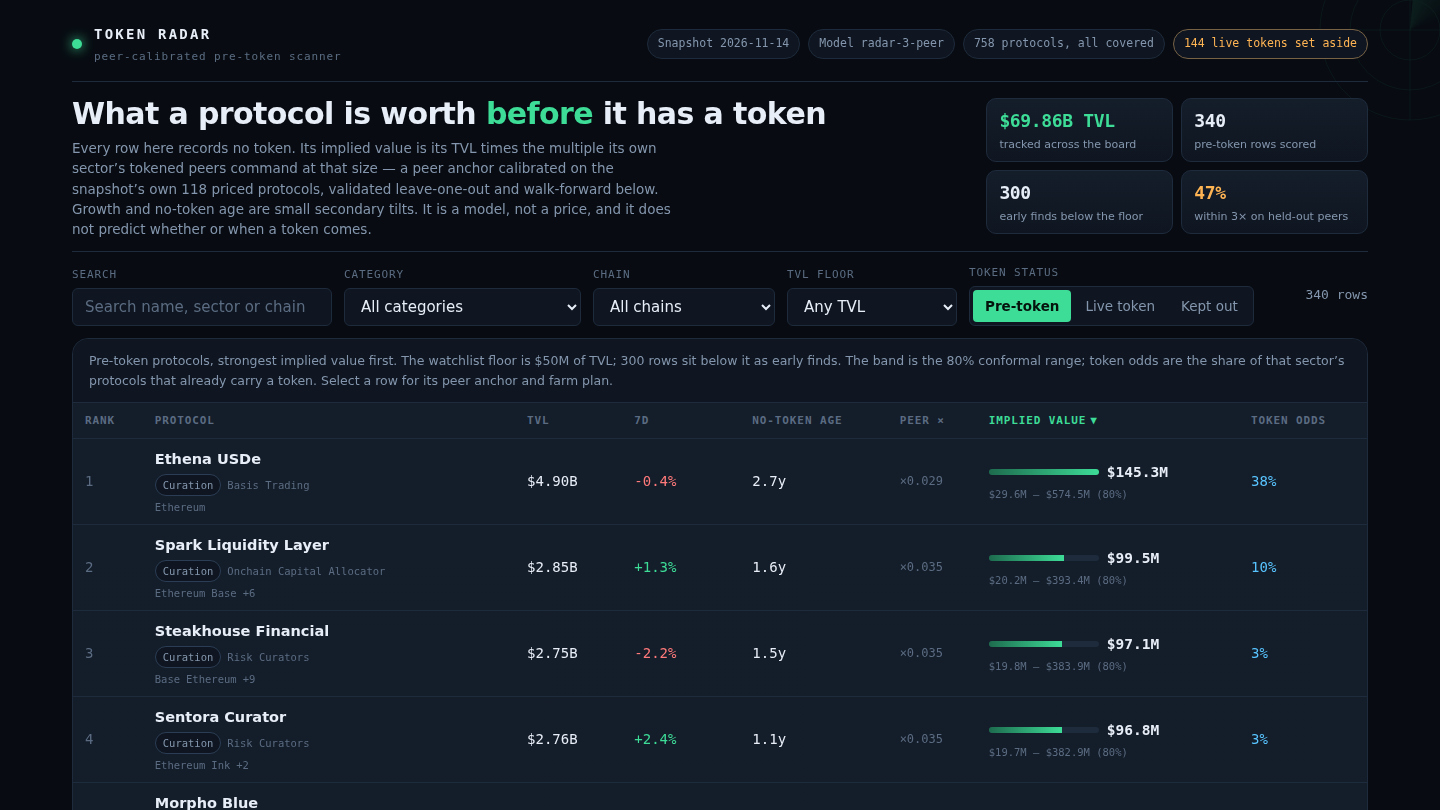
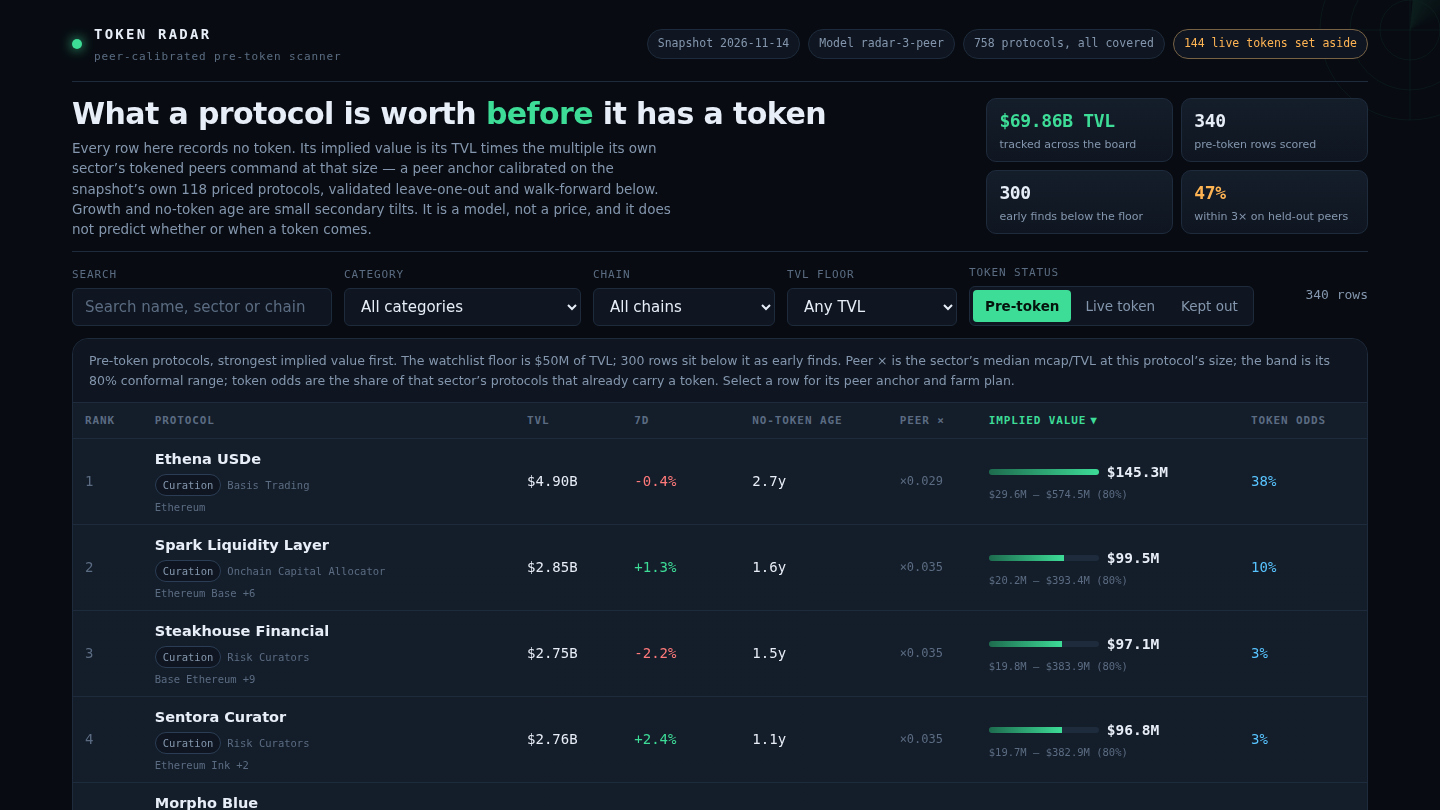
explain the peer column in the board caption; harden slug and history handling
The caption now says what Peer x means (the sector's median mcap/TVL at the
protocol's size), and the kept-out caption stops saying '274 of 274'. boardIssue
refuses a slug the snapshot does not list or an empty name; writeHash survives a
file:// history refusal. Screenshots re-rendered from this build: 331,528 /
312,482 / 340,405 bytes at 1440x810.

Changed region(s): [[0.0625, 0.4321, 0.9375, 0.4938]]

diff --git a/dashboard/app.js b/dashboard/app.js
@@ -89,7 +89,7 @@
     if (state.dir !== -1) p.set('dir', String(state.dir));
     if (state.selected) p.set('p', state.selected);
     var next = p.toString();
-    window.history.replaceState(null, '', next ? '#' + next : window.location.pathname + window.location.search);
+    try { window.history.replaceState(null, '', next ? '#' + next : window.location.pathname + window.location.search); } catch (e) { /* file:// may refuse a history rewrite; state still holds */ }
   }
 
   function passesFilters(r, q) {
@@ -249,7 +249,7 @@
       ? 'Showing ' + list.length + ' of ' + DATA.board_size + ' rows, ' + fmtUsd(list.reduce(function (s, r) { return s + r.tvl_usd; }, 0)) + ' of TVL, that match the filters.'
       : 'The watchlist floor is $' + Math.round(DATA.floor_usd / 1e6) + 'M of TVL; ' + DATA.early_size + ' rows sit below it as early finds.';
     return el('div', { class: 'panel' },
-      el('div', { class: 'caption', text: 'Pre-token protocols, strongest implied value first. ' + scope + ' The band is the 80% conformal range; token odds are the share of that sector\u2019s protocols that already carry a token. Select a row for its peer anchor and farm plan.' }),
+      el('div', { class: 'caption', text: 'Pre-token protocols, strongest implied value first. ' + scope + ' Peer \u00d7 is the sector\u2019s median mcap/TVL at this protocol\u2019s size; the band is its 80% conformal range; token odds are the share of that sector\u2019s protocols that already carry a token. Select a row for its peer anchor and farm plan.' }),
       el('div', { class: 'table-wrap' }, el('table', null,
         el('thead', null, el('tr', null,
           sortHeader('rank', 'Rank'), sortHeader('name', 'Protocol'), sortHeader('tvl', 'TVL'),
@@ -301,7 +301,7 @@
       ));
     });
     return el('div', { class: 'panel' },
-      el('div', { class: 'caption', text: 'These record no token but are wrapped, staked or bridged products of a token that already trades, exchange-branded, or versioned pools \u2014 the house watchlist rule keeps them out of the ranking, so they are shown here rather than mixed in. ' + list.length + ' of ' + DATA.excluded_size + ' shown.' }),
+      el('div', { class: 'caption', text: 'These record no token but are wrapped, staked or bridged products of a token that already trades, exchange-branded, or versioned pools \u2014 the house watchlist rule keeps them out of the ranking, so they are shown here rather than mixed in. ' + (list.length === DATA.excluded_size ? 'All ' + DATA.excluded_size + ' are shown.' : list.length + ' of ' + DATA.excluded_size + ' shown.') }),
       el('div', { class: 'table-wrap' }, el('table', null,
         el('thead', null, el('tr', null,
           el('th', { scope: 'col', text: 'Protocol' }), el('th', { scope: 'col', text: 'TVL' }), el('th', { scope: 'col', text: 'Why it is kept out' }))), tbody))

diff --git a/lib/model.ts b/lib/model.ts
@@ -452,6 +452,11 @@ export function boardIssue(board: BoardRow[], snapshot: Snapshot): string | null
   if (board.length < 100) return `the board has ${board.length} rows, under the 100 the gate wants`;
   if (board.length > 4000) return `the board has ${board.length} rows, over the 4,000 the gate takes`;
   const slugs = new Set(board.map((r) => r.slug));
+  const known = new Set(snapshot.protocols.map((p) => p.slug));
+  for (const r of board) {
+    if (!known.has(r.slug)) return `${r.slug} is not a protocol the snapshot lists`;
+    if (typeof r.name !== 'string' || r.name.length === 0) return `${r.slug} has no name`;
+  }
   const missing = snapshot.watchlist.filter((s) => !slugs.has(s));
   if (missing.length > 0) return `the board misses ${missing.length} watchlist slug${missing.length === 1 ? '' : 's'}: ${missing.slice(0, 5).join(', ')}`;
   const ranks = board.map((r) => r.rank).sort((a, b) => a - b);
